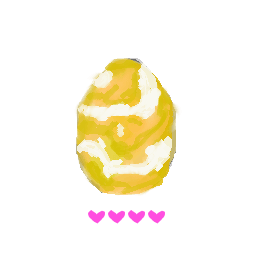
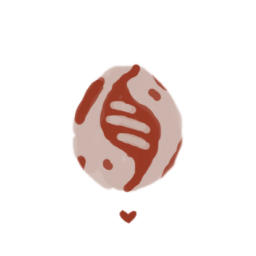
Change tier 4 to mega tier

Changed region(s): [[0.2812, 0.2188, 0.7188, 0.7812], [0.3438, 0.8125, 0.6562, 0.875]]

diff --git a/src/raidikalu/raidikalu/templates/raidikalu/raid_create.html b/src/raidikalu/raidikalu/templates/raidikalu/raid_create.html
@@ -56,12 +56,11 @@
         <div class="">
           <input id="raid-boss-input-checkbox-tier-5" class="styled-checkable-input" type="radio" name="raid-boss" value="tier-5" />
           <label for="raid-boss-input-checkbox-tier-5" class="raid-boss-input-label raid-boss-input-label-tier-5"></label>
+          {# Tier 4: mega tier #}
           <input id="raid-boss-input-checkbox-tier-4" class="styled-checkable-input" type="radio" name="raid-boss" value="tier-4" />
           <label for="raid-boss-input-checkbox-tier-4" class="raid-boss-input-label raid-boss-input-label-tier-4"></label>
           <input id="raid-boss-input-checkbox-tier-3" class="styled-checkable-input" type="radio" name="raid-boss" value="tier-3" />
           <label for="raid-boss-input-checkbox-tier-3" class="raid-boss-input-label raid-boss-input-label-tier-3"></label>
-          <input id="raid-boss-input-checkbox-tier-2" class="styled-checkable-input" type="radio" name="raid-boss" value="tier-2" />
-          <label for="raid-boss-input-checkbox-tier-2" class="raid-boss-input-label raid-boss-input-label-tier-2"></label>
           <input id="raid-boss-input-checkbox-tier-1" class="styled-checkable-input" type="radio" name="raid-boss" value="tier-1" />
           <label for="raid-boss-input-checkbox-tier-1" class="raid-boss-input-label raid-boss-input-label-tier-1"></label>
         </div>

diff --git a/src/raidikalu/raidikalu/static/raidikalu/css/style.css b/src/raidikalu/raidikalu/static/raidikalu/css/style.css
@@ -303,6 +303,7 @@ hr {
 }
 [data-tier="4"] .raid-tier {
   color: #b71c1c;
+  font-weight: bold;
 }
 [data-tier="3"] .raid-tier {
   color: #F57F17;

diff --git a/src/raidikalu/raidikalu/models.py b/src/raidikalu/raidikalu/models.py
@@ -92,8 +92,9 @@ class RaidType(models.Model):
       return '\u2605\u2605'
     if self.tier == 3:
       return '\u2605\u2605\u2605'
+    # Tier 4: mega tier
     if self.tier == 4:
-      return '\u2605\u2605\u2605\u2605'
+      return '\u00a7'
     if self.tier == 5:
       return '\u2605\u2605\u2605\u2605\u2605'
     return '\u2013'
@@ -181,8 +182,9 @@ class Raid(TimestampedModel):
       return '\u2605\u2605'
     if self.tier == 3:
       return '\u2605\u2605\u2605'
+    # Tier 4: mega tier
     if self.tier == 4:
-      return '\u2605\u2605\u2605\u2605'
+      return '\u00a7'
     if self.tier == 5:
       return '\u2605\u2605\u2605\u2605\u2605'
     return '\u2013'
